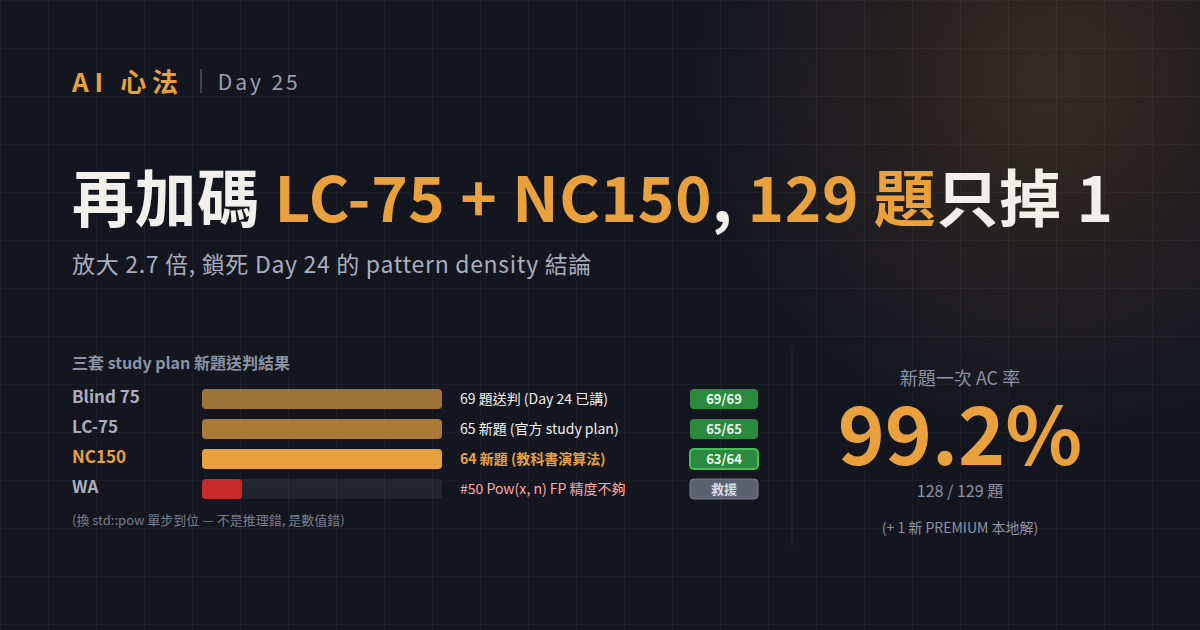
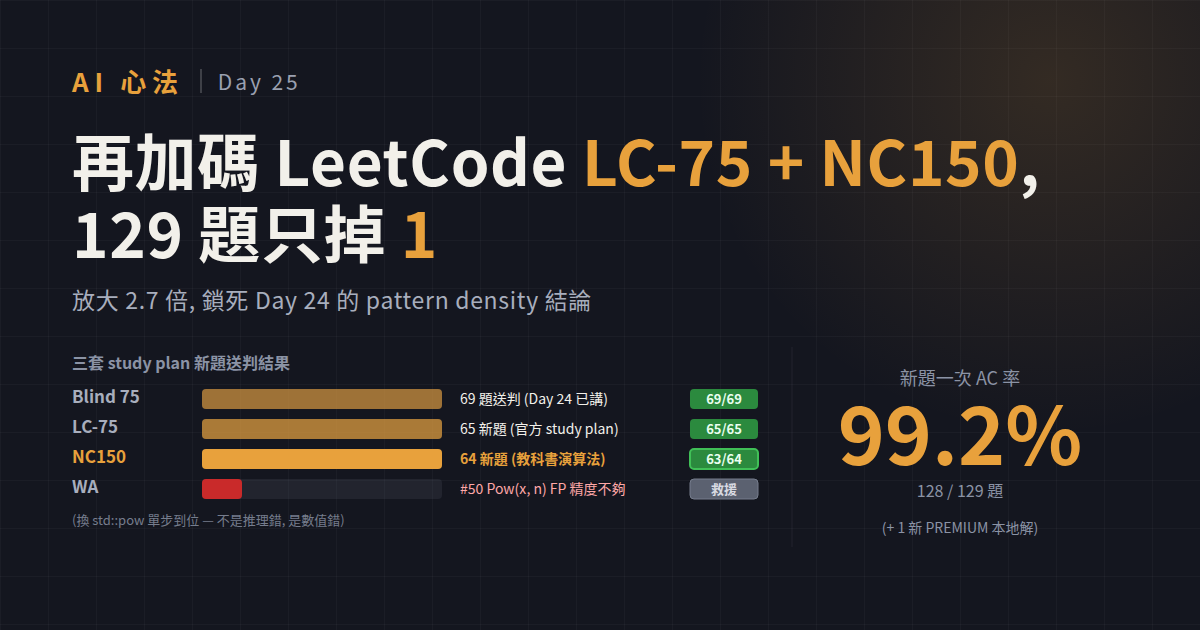
ironman: Day 25 cover 標題加上 LeetCode
主標從「再加碼 LC-75 + NC150, 129 題只掉 1」改成「再加碼 LeetCode LC-75 + NC150, 129 題只掉 1」, 讓讀者第一眼就看出題庫是 LeetCode. 加字後換行成兩行.

Changed region(s): [[0.0617, 0.2111, 0.925, 0.5127]]

diff --git a/05-notes/ironman/assets/cover-day25.html b/05-notes/ironman/assets/cover-day25.html
@@ -23,7 +23,7 @@ text{font-family:"Noto Sans CJK TC",sans-serif}
 <div class="wrap">
   <div class="top"><span class="mark">AI 心法</span><span class="bar"></span><span class="day">Day 25</span></div>
   <div>
-    <h1>再加碼 <em>LC-75 + NC150</em>, <em>129 題</em>只掉 1</h1>
+    <h1>再加碼 LeetCode <em>LC-75 + NC150</em>,<br>129 題只掉 <em>1</em></h1>
     <div class="sub">放大 2.7 倍, 鎖死 Day 24 的 pattern density 結論</div>
   </div>
   <div class="chartwrap">
